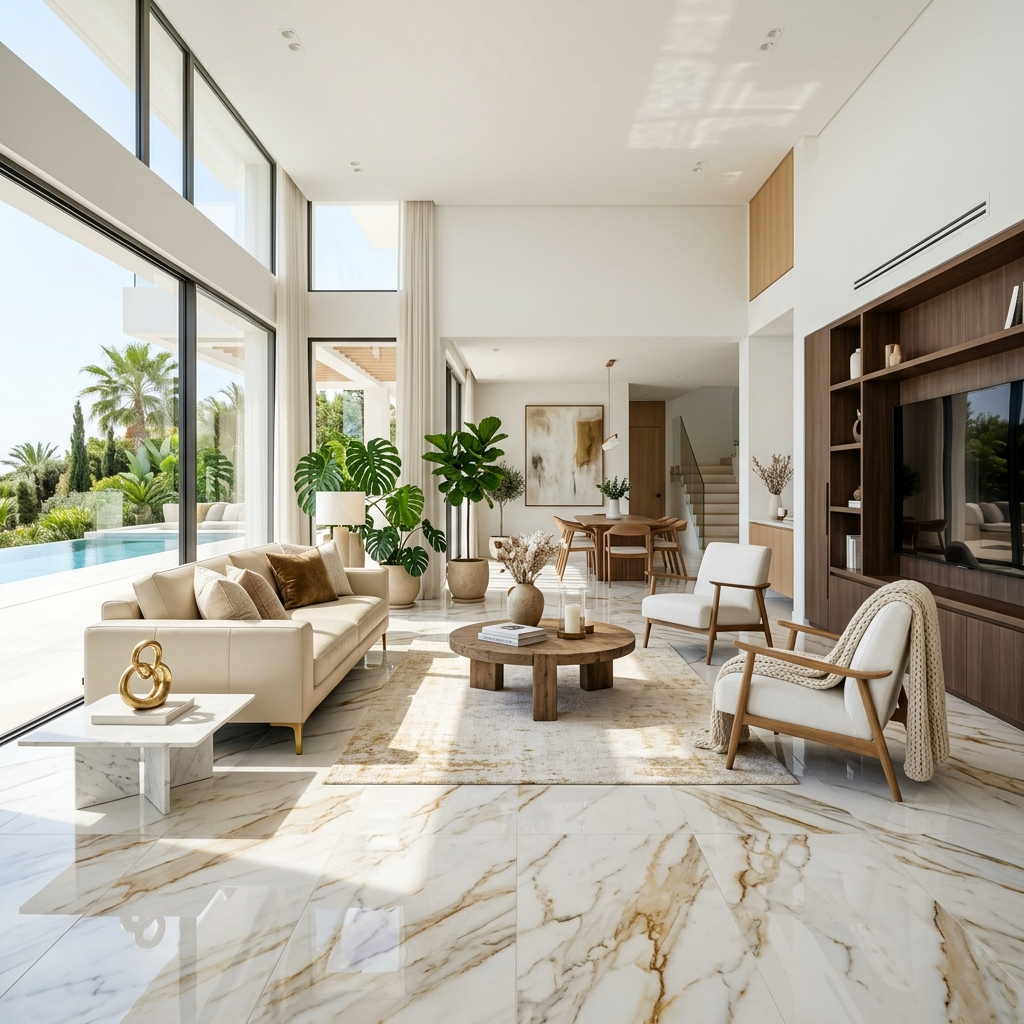
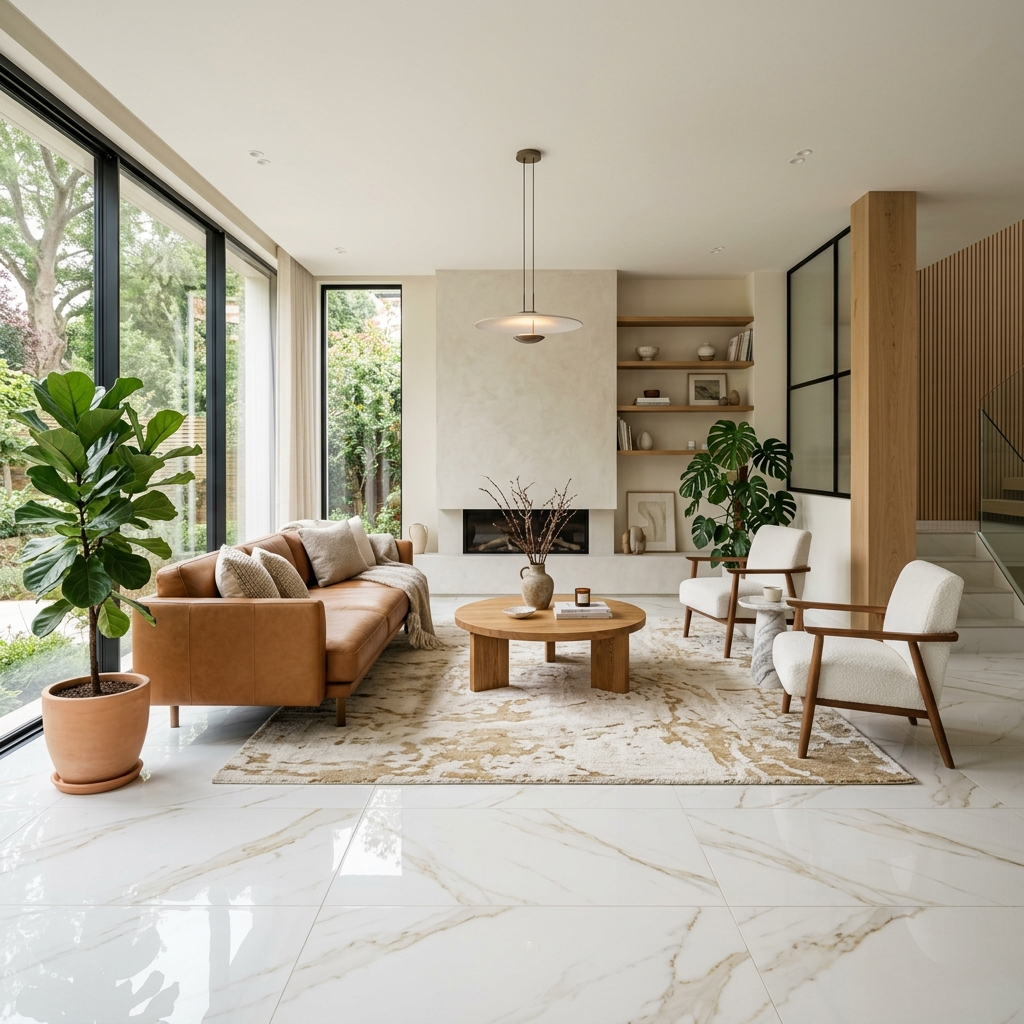
Support floor + wall AI render combinations with neutral photography illumination

diff --git a/src/componentes/dos_d/VisualizadorPlantillas.tsx b/src/componentes/dos_d/VisualizadorPlantillas.tsx
@@ -34,9 +34,13 @@ export const VisualizadorPlantillas: React.FC<PropiedadesVisualizador> = ({
   // Mapeo de Renders IA Generativos Fotorrealistas (0ms latency, ArchViz Quality)
   const renderIaFotorrealista = useMemo(() => {
     const ambienteId = plantillaActiva.id.split('-')[0]; // 'sala', 'bano', 'cocina'
-    const materialId = materialPiso.id;
-    return `/renders_ia/${ambienteId}_${materialId}.jpg`;
-  }, [plantillaActiva.id, materialPiso.id]);
+    const pisoId = materialPiso.id;
+    const paredId = materialPared?.id;
+    if (paredId) {
+      return `/renders_ia/${ambienteId}_piso-${pisoId}_pared-${paredId}.jpg`;
+    }
+    return `/renders_ia/${ambienteId}_${pisoId}.jpg`;
+  }, [plantillaActiva.id, materialPiso.id, materialPared?.id]);
 
   const [tieneRenderIa, setTieneRenderIa] = React.useState<boolean>(true);
 
